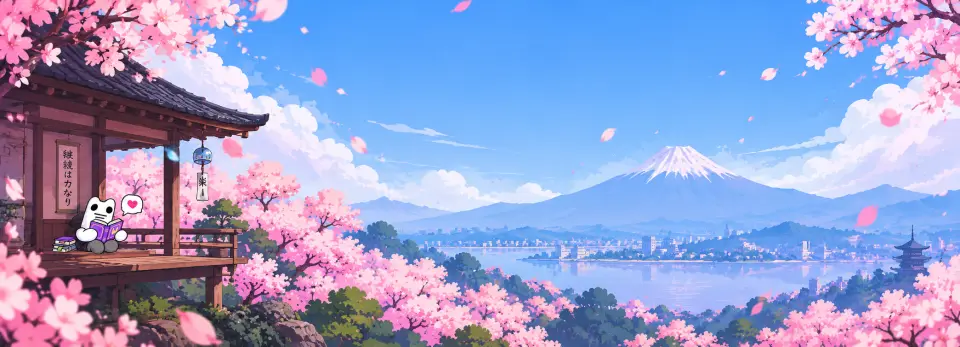
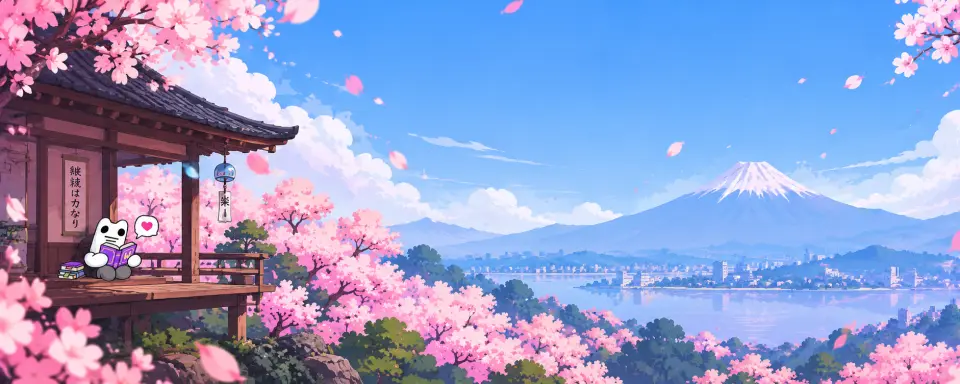
All six paintings, whole rather than cropped, and no black between pages
The other five tiers, and three things that only showed up once there was a
picture there to notice them by.

The whole width, not the middle of it. A window is about 1.6:1 and these are
2.5:1, so filling the height threw away a third of each side - and the
crocodile stands at the left edge of every one of them. Fitting the width
shows all of it and leaves a band with two hard horizontal edges, so the band
is faded into the page colour top and bottom. That fade can be placed to the
pixel because all six files are now cut to exactly 2.5:1: the band is always
40vw tall, so its edges are always 20vw either side of the middle. Pleasant
was the odd one at 2.77:1 and is trimmed on the right, away from the
crocodile; Painful was 2.40:1 and loses a strip of sky.

The black flash between pages was the painting being in the wrong layer. It
was a fixed layer inside body, and a fixed layer inside body is captured *in*
the view transition snapshots - so for the moment when the old page had faded
and the new one had not yet arrived, neither snapshot was opaque and the flat
page colour showed through. On a dark theme that is the screen going black on
every click. It is the root's background now, which the browser paints behind
everything it composites, snapshots included, so there is no longer a layer
that can be faded to reveal anything.

And the waiting screen was opaque. It is a please-wait, not a lid - there is
[…]

diff --git a/webapp/render.py b/webapp/render.py
@@ -1985,15 +1985,18 @@ PHRASES = [
 # The paintings that can sit behind the page. Adding the next tier is a word
 # here and two files in assets/ - the settings control, the routes that serve
 # them and the boot script all read this.
-BACKDROPS = ("pleasant",)
-BACKDROP_NAMES = {"pleasant": "Pleasant"}
+# In WaniKani's own order, so the list reads as the climb rather than as six
+# pictures. The keys are the tier keys, which is what keeps this and TIERS
+# talking about the same thing - the painting for level 41-50 is filed under
+# paradise even though the sign in it says heaven.
+BACKDROPS = ("pleasant", "painful", "death", "hell", "paradise", "reality")
+BACKDROP_NAMES = {b: b.title() for b in BACKDROPS}
 
 
 RAIN_CSS = """
-/* A painting behind the page, on a fixed layer of its own. Not on the body,
-   whose own background is opaque and would cover it, and not scrolling with
-   the page, which would make it read as a very long banner rather than a
-   view the page sits in front of.
+/* A painting behind the page, fixed to the viewport so it does not scroll -
+   a background that scrolls reads as a very long banner rather than a view
+   the page stands in front of.
    Two washes, not one. The cards paint their own background and were never
    in danger, but a heading and a grey line of explanation sit straight on the
    page - and --muted has only 5.12:1 on the plain background to begin with,
@@ -2010,7 +2013,34 @@ RAIN_CSS = """
 :root[data-theme="dark"] { --scrim:rgba(20,19,18,.62);
   --panel:rgba(20,19,18,.92); }
 
-html.hasbg { background:var(--bg); }
+/* On the root, not on a layer of body's own. The root's background is painted
+   behind everything the browser draws, view transition snapshots included -
+   and a fixed layer inside body is captured *in* those snapshots, so while one
+   page was fading out and the next fading in there was a moment when neither
+   was fully opaque and the flat page colour showed through. On a dark theme
+   that reads as the screen going black between every click.
+   Fitted to the width rather than cropped to fill. A browser window is around
+   1.6:1 and these are 2.5:1, so "cover" scaled them to the height and threw
+   away a third of each side - which is exactly where the crocodile stands.
+   Fitting the width shows all of it and leaves a band, and the band would
+   have two hard horizontal edges, so it is faded into the page colour at the
+   top and bottom. That fade can be placed exactly because all six files are
+   cut to the same 2.5:1: the band is always 40vw tall, so its edges are
+   always 20vw either side of the middle. */
+html.hasbg {
+  background-color:var(--bg);
+  background-image:
+    linear-gradient(var(--scrim), var(--scrim)),
+    linear-gradient(var(--bg) calc(50% - 20vw),
+                    transparent calc(50% - 13vw),
+                    transparent calc(50% + 13vw),
+                    var(--bg) calc(50% + 20vw)),
+    var(--backdrop);
+  background-size:100% 100%, 100% 100%, 100% auto;
+  background-position:center;
+  background-repeat:no-repeat;
+  background-attachment:fixed;
+}
 html.hasbg body { background:transparent; }
 /* The fade lands exactly on main's own 22px padding, so no word is ever over
    the soft edge of its own backing. */
@@ -2018,15 +2048,16 @@ html.hasbg main {
   background:linear-gradient(to right, transparent 0, var(--panel) 22px,
                              var(--panel) calc(100% - 22px), transparent 100%);
 }
-html.hasbg body::before {
-  content:""; position:fixed; inset:0; z-index:-1;
-  background-image:linear-gradient(var(--scrim), var(--scrim)), var(--backdrop);
-  background-size:cover; background-position:center; background-repeat:no-repeat;
-}
-/* A phone gets the small one. A 2.8:1 painting cropped to a tall screen is
-   mostly sky either way, so it is not worth 120kB of it. */
+/* The waiting screen is a please-wait, not a lid: there is nothing behind it
+   yet but the top bar. Opaque, it dropped a slab of flat colour over the
+   painting and took it away again a second later, which looked like a fault.
+   The panel colour instead - the same 92% the column uses, so the sentence on
+   it keeps the contrast the column's own text has. */
+html.hasbg .splash { background:var(--panel); }
+/* A phone gets the small one: at 375px wide the big file is 120kB to draw a
+   band 135px tall. */
 @media (max-width:700px) {
-  html.hasbg body::before {
+  html.hasbg {
     background-image:linear-gradient(var(--scrim), var(--scrim)),
                      var(--backdrop-sm);
   }
